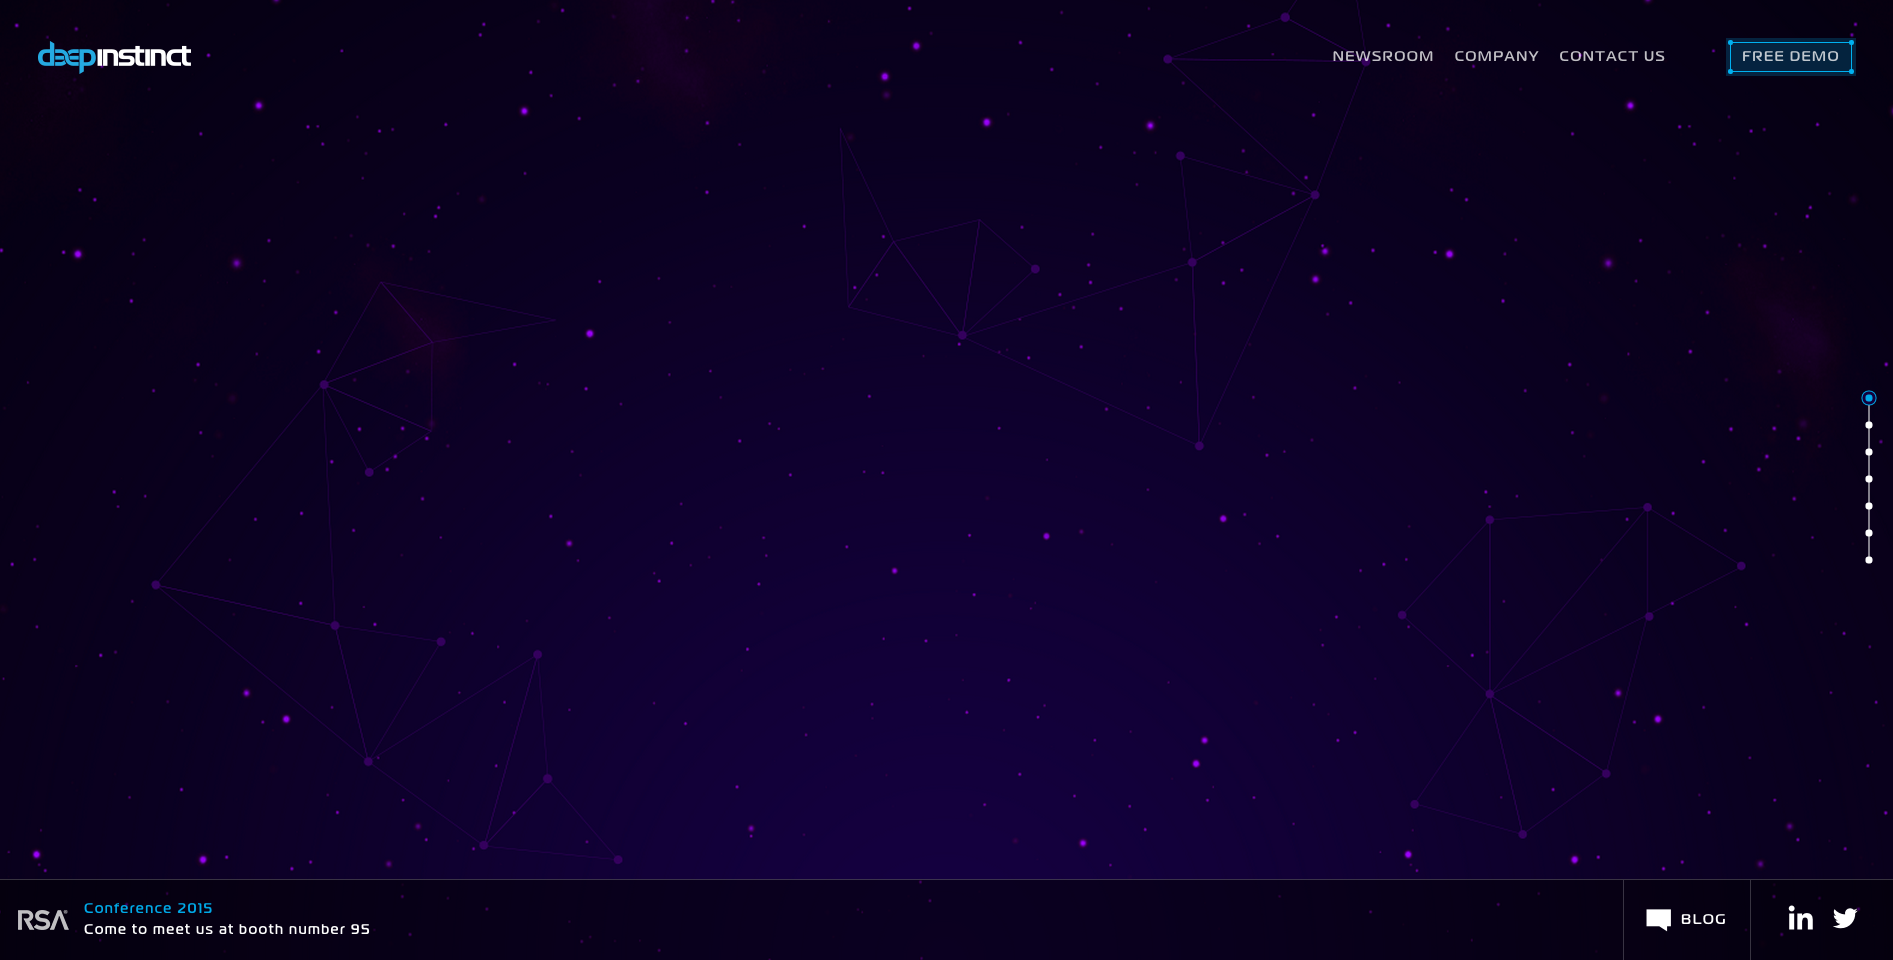
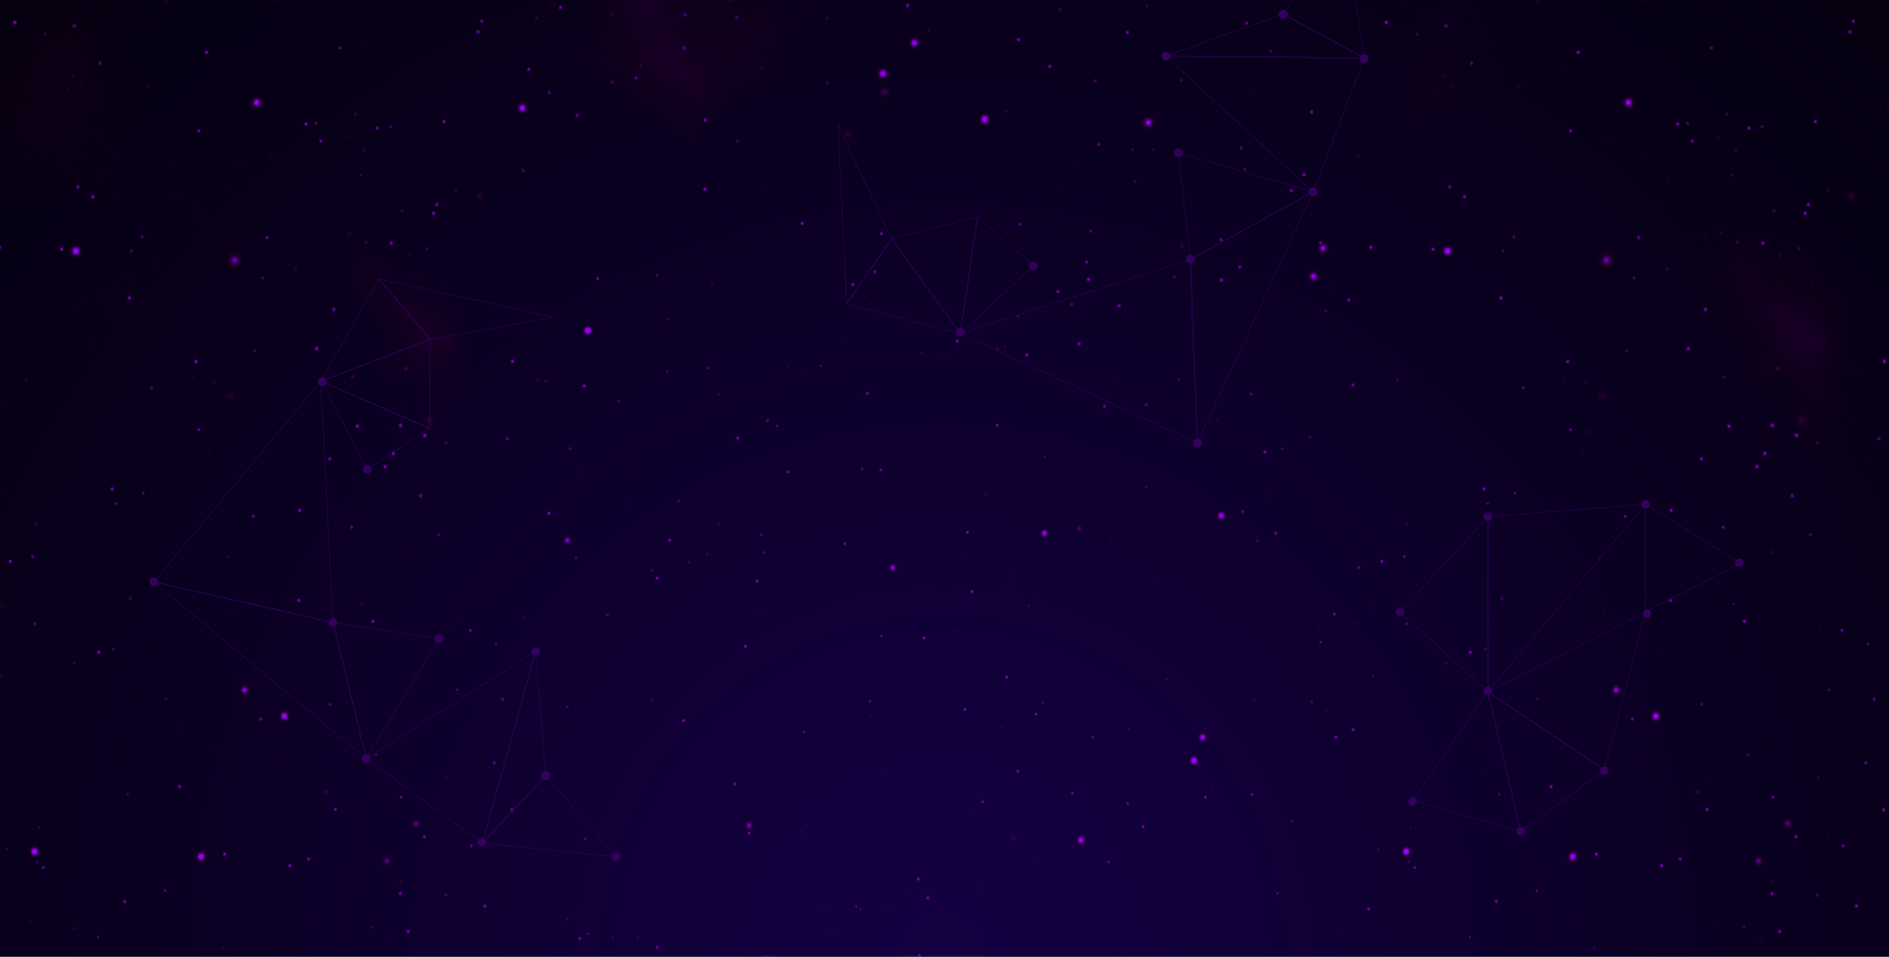
bg

diff --git a/front/app/App.jsx b/front/app/App.jsx
@@ -1,4 +1,4 @@
-require('./style.css');
+69+require('./style.css');
 
 var data = window.data = require('./data');
 var elements = window.elements = require('./elements.js');
@@ -114,18 +114,19 @@ module.exports = React.createClass({
             opacity: 0.5,
             visible: true
         });
-        canvas.makeGrid(data.source);
-        if(data.dots.length){
-            data.dots.forEach(canvas.addDot)
-        }
-        if(data.lines.length){
-            data.lines.forEach((line)=>{
-                canvas.addLine(line[0], line[1]);
-            })
-        }
-        if(data.faces.length){
-            data.faces.forEach(canvas.addFace)
-        }
+        // canvas.makeGrid(data.source);
+        // if(data.dots.length){
+        //     data.dots.forEach(canvas.addDot)
+        // }
+        // if(data.lines.length){
+        //     data.lines.forEach((line)=>{
+        //         canvas.addLine(line[0], line[1]);
+        //     })
+        // }
+        // if(data.faces.length){
+        //     data.faces.forEach(canvas.addFace)
+        // }
+        canvas.makeParticleSystem();
     },
     addDot(vIndex){
         var dots = this.state.dots;
@@ -279,16 +280,57 @@ module.exports = React.createClass({
         this.setState({symmetric: !this.state.symmetric});
     },
     removeDotLinesAndFaces(vIndex){
-        canvas.removeDotLinesAndFaces(vIndex);
-        if(this.state.symmetric){
-            canvas.removeDotLinesAndFaces(RVIndex(vIndex));
+      var vLine, vFace;
+      var data = this.state;
+      var rvIndex = RVIndex(vIndex);
+      canvas.removeDot(vIndex);
+      if(data.symmetric){
+        canvas.removeDot(rvIndex);
+      }
+      data.dots = data.dots.filter((dot, index)=>{
+        if(dot === vIndex){
+          return false;
         }
+        if(data.symmetric){
+          if(dot === rvIndex){
+            return false;
+          }
+        }
+        return true;
+      })
+      data.lines = data.lines.filter((line, index)=>{
+        if(line[0] === vIndex || line[1] === vIndex){
+          canvas.removeLine(line[0], line[1]);
+          return false;
+        }
+        if(data.symmetric){
+          if(line[0] === rvIndex || line[1] === rvIndex){
+            canvas.removeLine(line[0], line[1]);
+            return false;
+          }
+        }
+        return true;
+      })
+      data.faces = data.faces.filter((face, index)=>{
+        if(face.indexOf(vIndex) > -1){
+          canvas.removeFace(face);
+          return false;
+        }
+        if(data.symmetric){
+          if(face.indexOf(rvIndex) > -1){
+            canvas.removeFace(face);
+            return false;
+          }
+        }
+        return true;
+      })
         this.removeMarkers();
         face = [];
+        this.setState(data);
     },
     toggleData(){
         if(!this.state.showData){
-            var text = JSON.stringify(this.state, null, 4);
+            var text = JSON.stringify(this.state);
             setTimeout(() => {
                 this.refs.text.getDOMNode().value = text;
             }, 100);

diff --git a/front/app/Controls.jsx b/front/app/Controls.jsx
@@ -12,12 +12,56 @@ var buttonStyle = {
 
 var faces = [];
 
-
 var Face = require('./Face.jsx');
 var Line = require('./Line.jsx');
 var Vertex = require('./Vertex.jsx');
 var PositionInput = require('./PositionInput.jsx');
 
+function clean(data) {
+    var source = data.source;
+    var dots = data.dots;
+    var lines = data.lines;
+    var faces = data.faces;
+    dots = dots.filter(function(dot, i){
+        for(var k = (i + 1); k < dots.length; k++){
+            if(dot === dots[k]) {
+                console.log('clearing dot ' + dot);
+                return false;
+            }
+        }
+        return true;
+    });
+    lines = lines.filter(function(line, i){
+        if(line[0] === line[1]) return false;
+        if(dots.indexOf(line[0]) === -1 || dots.indexOf(line[1]) === -1 ) return false;
+        for(var k = (i + 1); k < lines.length; k++){
+            if((line[0] === lines[k][0]) && (line[1]=== lines[k][1])) {
+                console.log('clearing line [' + line[0] + ', ' + line[1] + ']');
+                return false;
+            }
+            if((line[0] === lines[k][1]) && (line[1]=== lines[k][0])) {
+                console.log('clearing line [' + line[0] + ', ' + line[1] + ']');
+                return false;
+            }
+        }
+        return true;
+    });
+    faces = faces.filter(function(face, i){
+        if(face[0] === face[1] || face.indexOf(face[2]) < 2) return false;
+        if(dots.indexOf(face[0]) === -1 || dots.indexOf(face[1]) === -1  || dots.indexOf(face[2]) === -1) return false;
+        for(var k = (i + 1); k < faces.length; k++){
+            if((face.indexOf(faces[k][0]) > -1) && (face.indexOf(faces[k][1]) > -1) && (face.indexOf(faces[k][2]) > -1)) {
+                console.log('clearing face [' + face[0] + ', ' + face[1] + ', ' + face[2] + ']');
+                return false;
+            }
+        }
+        return true;
+    });
+    data.dots = dots;
+    data.lines = lines;
+    data.faces = faces;
+    return data;
+}
 
 module.exports = React.createClass({
     renderVertex(vIndex){
@@ -59,6 +103,7 @@ module.exports = React.createClass({
         var vIndex = this.props.vIndex;
         var vertex = this.props.data.source[vIndex];
         if(vertex) this.props.setVertex(vIndex, [vertex[0], vertex[1], v]);
+
     },
     render () {
         var data = this.props.data;

diff --git a/front/app/Canvas.jsx b/front/app/Canvas.jsx
@@ -4,6 +4,7 @@ var elements = window.elements = require('./elements.js');
 var make = window.make = require('./make.js');
 var utils = window.utils = require('./utils.js');
 var Stage3d = require('./Stage3d');
+var particles = require('./particles');
 // ok
 var stage, half = 0;
 
@@ -49,6 +50,11 @@ module.exports = React.createClass({
         elements.lines = [];
         elements.faces = [];
     },
+    makeParticleSystem(){
+      var particleSystem = particles.makeSystem();
+      particleSystem.sortParticles = true;
+      stage.space.add(particleSystem);
+    },
     addDot(vIndex, options) {
         options = options || {};
         var vertex = this.props.data.source[vIndex];
@@ -86,7 +92,6 @@ module.exports = React.createClass({
             if(elements.dots[i].vIndex === vIndex){
                 stage.space.remove(elements.dots[i]);
                 elements.dots.splice(i, 1);
-                return;
             }
         }
     },
@@ -98,15 +103,14 @@ module.exports = React.createClass({
             if((a === vIndexA && b === vIndexB) || (b === vIndexA && a === vIndexB)){
                 stage.space.remove(elements.lines[i]);
                 elements.lines.splice(i, 1);
-                return;
             }
         }
     },
     removeFace (face) {
+      if(!face || !face.indexOf) return;
         var el;
         for(var i = 0; i < elements.faces.length; i++){
             el = elements.faces[i];
-            console.log(face, el.vIndexA, el.vIndexB, el.vIndexC);
             if(face.indexOf(el.vIndexA) > -1 && face.indexOf(el.vIndexB) > -1 && face.indexOf(el.vIndexC) > -1){
                 stage.space.remove(el);
                 elements.faces.splice(i, 1);

diff --git a/front/app/particles.js b/front/app/particles.js
@@ -1,0 +1,40 @@
+
+
+module.exports = {
+  makeSystem(){
+    var particleCount = 1800,
+        particles = new THREE.Geometry(),
+        pMaterial = new THREE.ParticleBasicMaterial({
+          color: 0xFFFFFF,
+          size: 1,
+          map: THREE.ImageUtils.loadTexture(
+            "electric.png"
+          ),
+          blending: THREE.AdditiveBlending,
+          transparent: true
+        });
+
+// also update the particle system to
+// sort the particles which enables
+// the behaviour we want
+
+
+    // now create the individual particles
+    for (var p = 0; p < particleCount; p++) {
+
+      // create a particle with random
+      // position values, -250 -> 250
+      var pX = Math.random() - 0.5,
+          pY = Math.random() - 0.5,
+          pZ = Math.random() - 0.5,
+          particle = new THREE.Vector3(pX, pY, pZ);
+
+      // add it to the geometry
+      particles.vertices.push(particle);
+    }
+
+    // create the particle system
+    var particleSystem = new THREE.ParticleSystem(particles, pMaterial);
+    return particleSystem;
+  }
+}

diff --git a/front/webpack.config.js b/front/webpack.config.js
@@ -9,8 +9,8 @@ var config = {
 
     entry : {
         app : [
-            //'webpack-dev-server/client?http://localhost:3000',
-            //'webpack/hot/only-dev-server',
+            'webpack-dev-server/client?http://localhost:3000',
+            'webpack/hot/only-dev-server',
             appPath
         ]
     },
